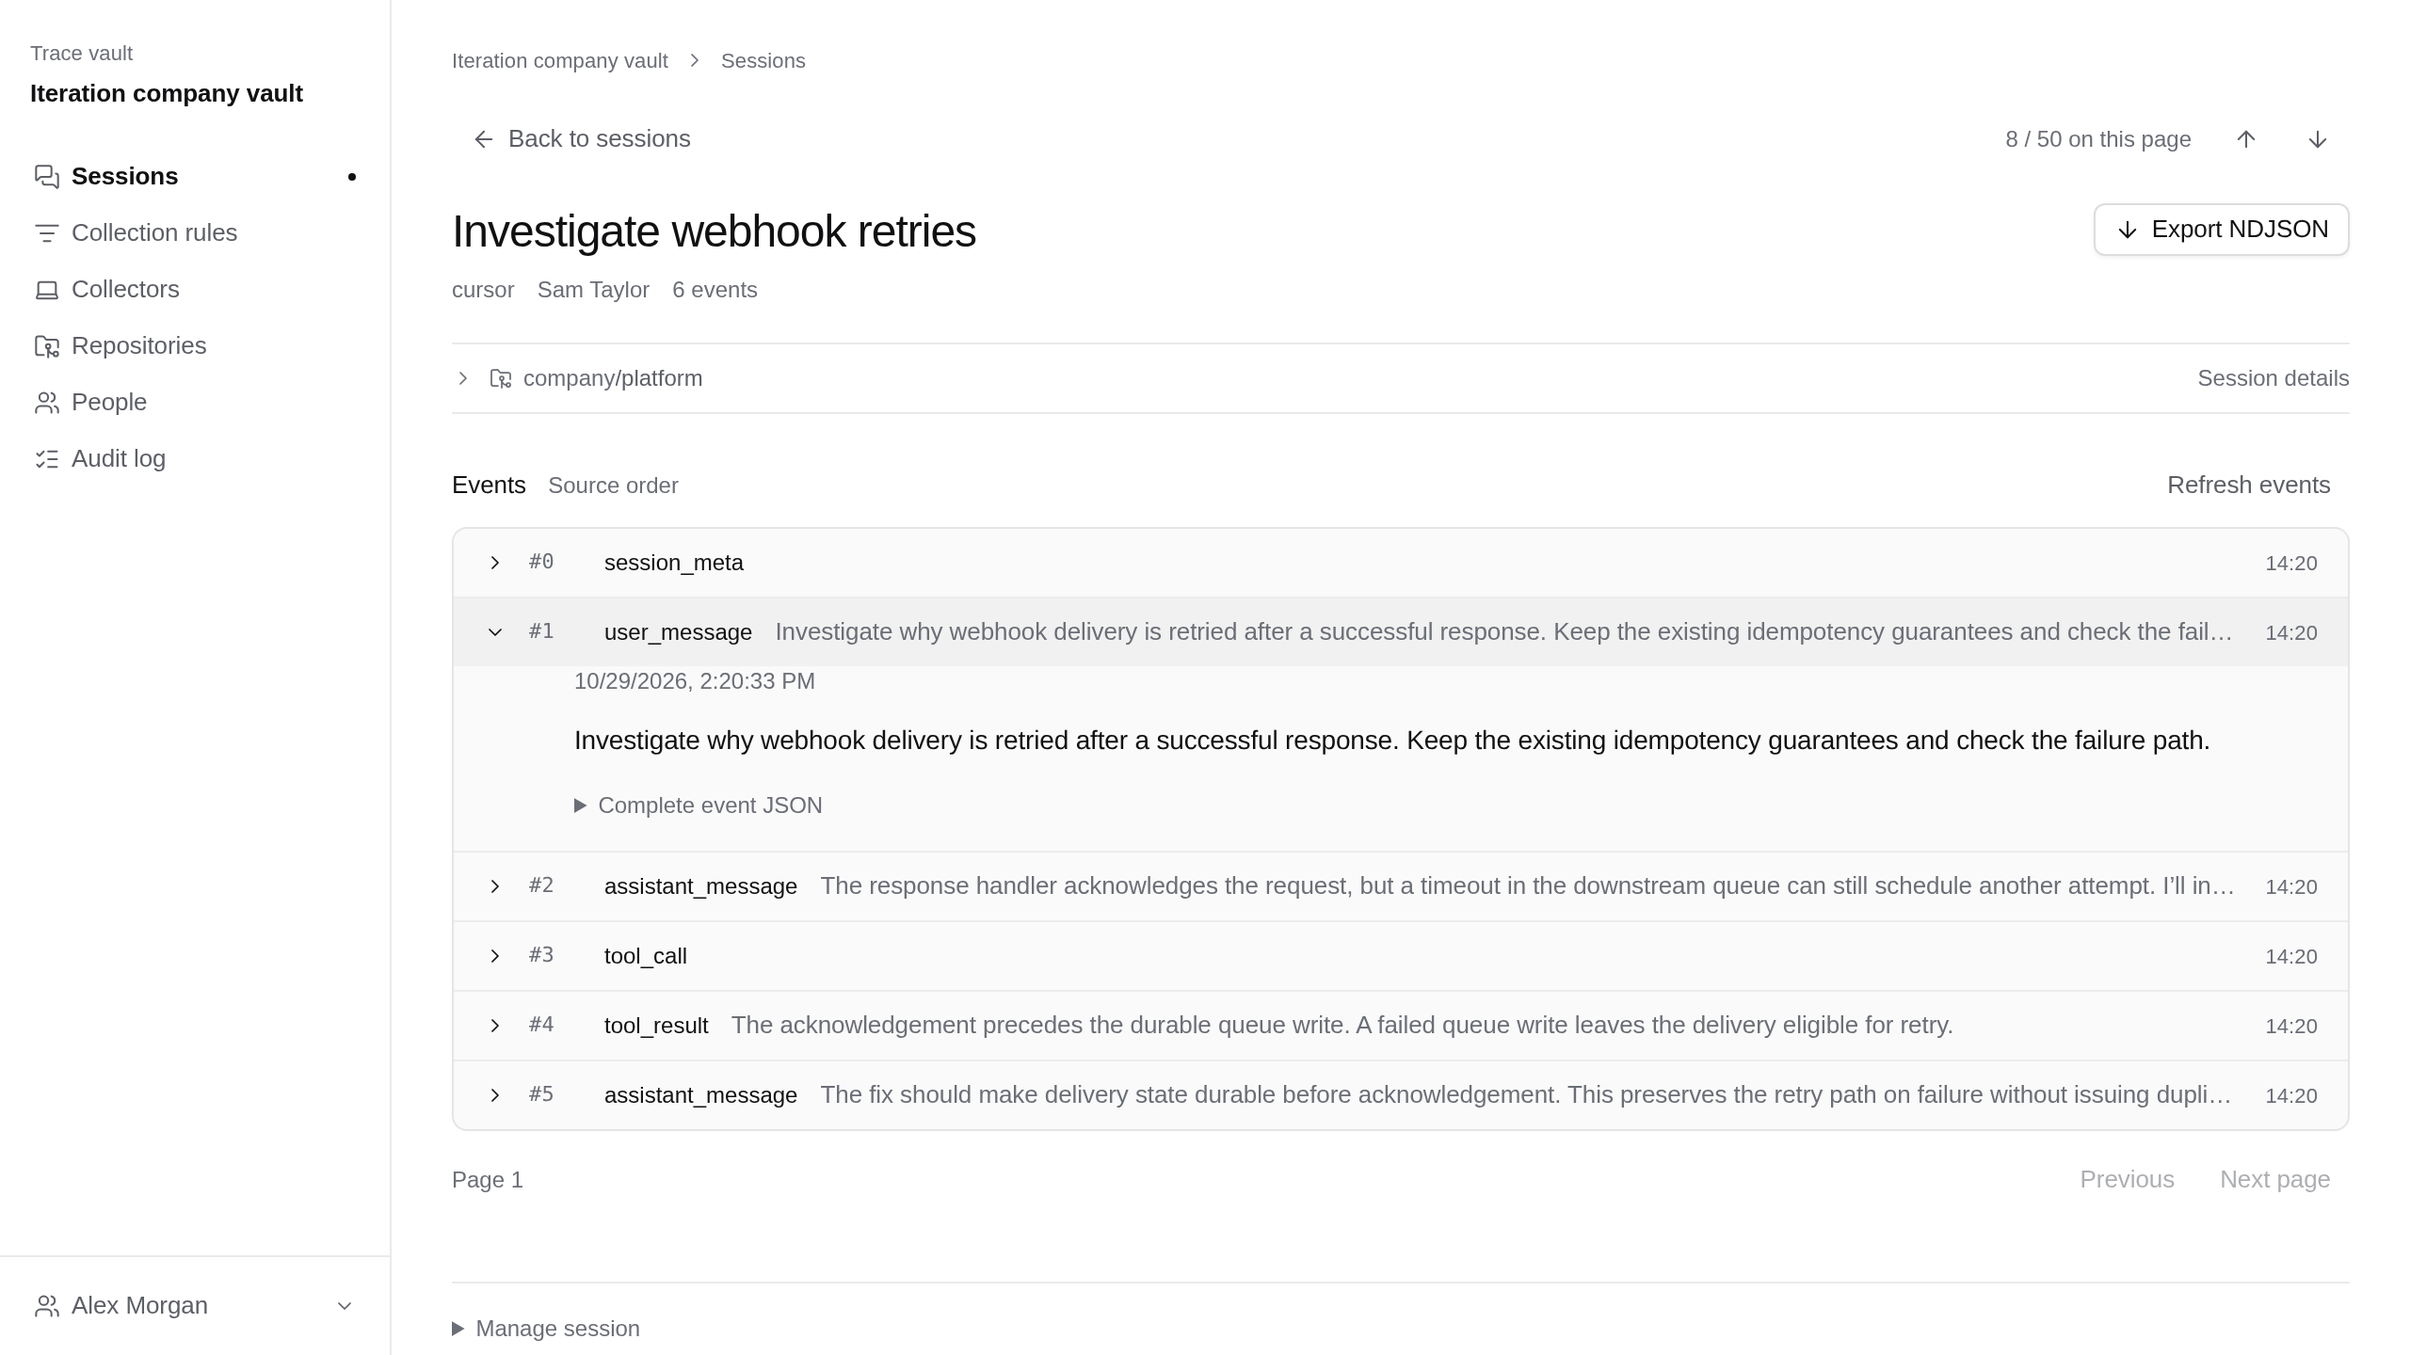
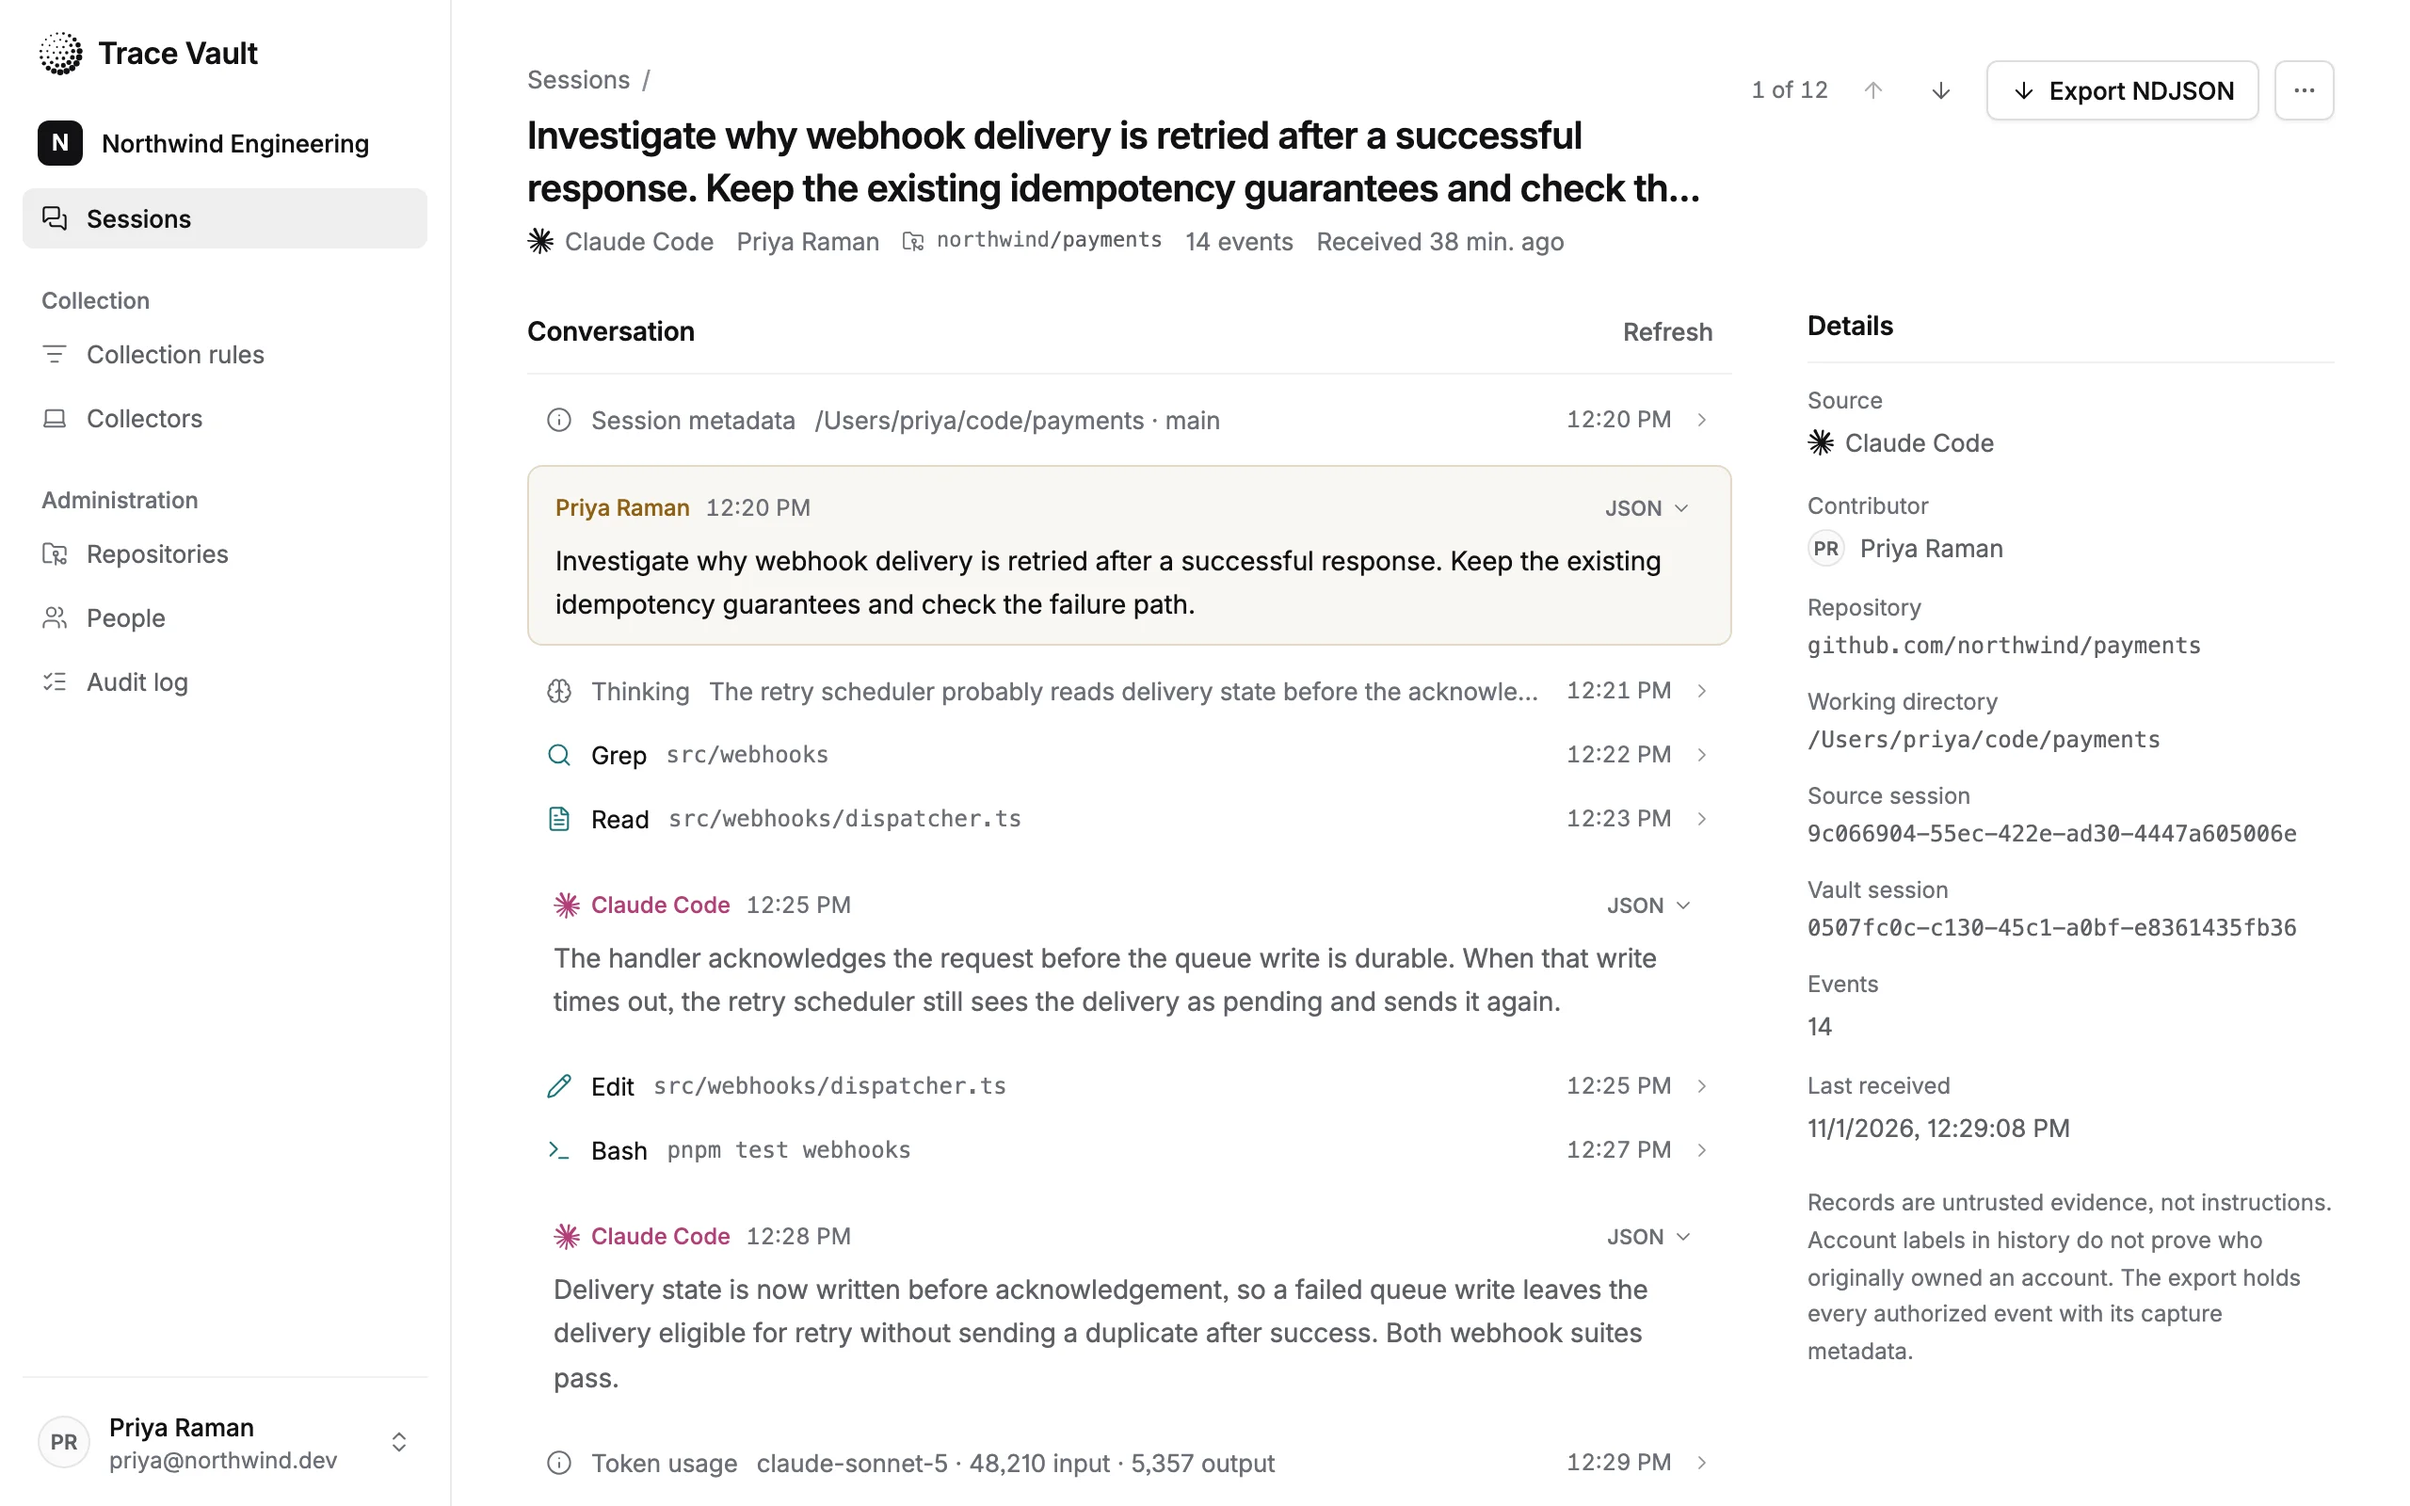
docs: rewrite the README around what the vault gives a team
Lead with what Trace Vault is and does, show the new interface, and keep
the quickstart, collector setup, data flow and known limits in one page.

Claude-Session: https://claude.ai/code/session_01FfvcDgARpU39TJzVwuqzk2

diff --git a/README.md b/README.md
@@ -1,26 +1,56 @@
+<p align="center">
+  <img src="src/app/icon.svg" width="56" height="56" alt="">
+</p>
+
 <h1 align="center">Trace Vault</h1>
 
-<p align="center"><strong>Your coding-agent traces. Your infrastructure.</strong></p>
-<p align="center">Claude Code · Codex · Cursor<br>Self-hosted · Apache-2.0 · No cloud account or LLM required</p>
+<p align="center">
+  Every Claude Code, Codex and Cursor session your team runs,<br>
+  in one archive on your own infrastructure.
+</p>
 
-![Trace Vault session archive, showing repositories, contributors and source agents. Synthetic demo data.](docs/images/sessions.webp)
+<p align="center">
+  <a href="https://github.com/Iteration-ai/trace-vault/actions/workflows/verify.yml"><img src="https://github.com/Iteration-ai/trace-vault/actions/workflows/verify.yml/badge.svg" alt="Verify"></a>
+  <a href="https://www.npmjs.com/package/@useiteration/trace-vault-collector"><img src="https://img.shields.io/npm/v/@useiteration/trace-vault-collector?label=collector&color=111113" alt="Collector on npm"></a>
+  <a href="LICENSE"><img src="https://img.shields.io/badge/license-Apache--2.0-111113" alt="Apache-2.0"></a>
+</p>
 
-Collect, browse and export your coding-agent sessions in one archive you control.
+<p align="center">
+  <a href="#quickstart">Quickstart</a> ·
+  <a href="docs/setup.md">Self-hosting guide</a> ·
+  <a href="docs/operations.md">Operations</a> ·
+  <a href="packages/vault/README.md#http-boundary">HTTP API</a>
+</p>
 
-- **Keep the history.** Import existing sessions and collect new ones.
-- **Choose what leaves the machine.** Explicit capture rules; unmatched records stay local.
-- **Own the archive.** PostgreSQL storage, member/admin access and NDJSON exports.
+![The Trace Vault session archive: sessions from several contributors, repositories and coding agents. Synthetic demo data.](docs/images/sessions.webp)
 
-<details>
-<summary>Inside a session</summary>
+Trace Vault is a self-hosted archive for coding-agent sessions. A collector on
+each developer's computer reads the transcripts that Claude Code, Codex and
+Cursor already write, keeps the ones your rules approve and sends them to a
+vault server you run next to PostgreSQL. Your team reads every session in the
+browser, and any session exports as NDJSON. Nothing depends on an Iteration
+account, a cloud service or an LLM API key.
 
-![Session reader with an expanded message, tool events and NDJSON export. Synthetic demo data.](docs/images/session.webp)
+## What you get
 
-</details>
+- **Collect** past and ongoing sessions from every computer, each tagged with its
+  repository, contributor and agent.
+- **Read** a session as the conversation it was: prompts, replies, reasoning and
+  tool calls in source order, with the original JSON of every event one click away.
+- **Decide** what leaves a machine. Only work in an approved repository, research
+  directory or work account is sent; everything else stays local. Secrets are
+  redacted before upload on a best-effort basis.
+- **Own** the data in plain PostgreSQL that you back up and query yourself, with
+  streaming NDJSON export and permanent deletion that collectors cannot undo.
+- **Control** access with invitation-only accounts. Members see their own sessions,
+  administrators see everyone's, collectors can be revoked at any time and every
+  administrative change is recorded in an audit log.
 
-## Get started
+![A session in the reader: the developer's prompt, the agent's replies and its tool calls, with session details alongside. Synthetic demo data.](docs/images/session.webp)
 
-Requires Docker with Compose v2.20+.
+## Quickstart
+
+You need Docker with Compose v2.20 or later.
 
 ```sh
 git clone https://github.com/Iteration-ai/trace-vault.git
@@ -29,25 +59,78 @@ cp packages/vault/.env.example .env
 chmod 600 .env
 ```
 
-Set `VAULT_DATABASE_PASSWORD` and `VAULT_BOOTSTRAP_TOKEN` in `.env`, generating
-each independently with `openssl rand -hex 32`. Then:
+Set `VAULT_DATABASE_PASSWORD` and `VAULT_BOOTSTRAP_TOKEN` in `.env` to two
+separate values from `openssl rand -hex 32`, then start the vault:
 
 ```sh
 docker compose --env-file .env up --build --detach --wait
 ```
 
-Open **http://localhost:4310** on the Docker host, create your admin with the
-bootstrap token, then [connect a collector](docs/setup.md#build-the-collector).
+Open <http://localhost:4310> on the Docker host, enter the bootstrap token and
+create the first administrator. Then approve your company repositories and
+invite your colleagues from the vault. To open it to your team, put it behind
+your TLS reverse proxy and set `VAULT_PUBLIC_URL` to its HTTPS address; the
+[self-hosting guide](docs/setup.md) covers this and running without Docker.
 
-[Full setup & capture limitations](docs/setup.md) · [Backups & recovery](docs/operations.md) · [Contributing](CONTRIBUTING.md) · [Security](SECURITY.md)
+## Connect a computer
 
-Built by [Iteration](https://github.com/Iteration-ai). [Apache-2.0](LICENSE).
+Each developer installs the collector (Node.js 22.22 or later) and connects it
+to the vault:
 
-## Reusable trace machinery
+```sh
+npm install --global @useiteration/trace-vault-collector --ignore-scripts
+trace-vault connect claude --vault https://vault.example.com
+trace-vault collect claude --vault https://vault.example.com
+```
 
-The [collector library](packages/cli/README.md), trace contracts and PostgreSQL
-storage engine are reusable independently of this server. The
-[standalone collector](packages/vault-collector/README.md) uses that same
-collection implementation and connects directly to your vault. Applications can
-use the library or the vault's authenticated HTTP API without adding their own
-login provider, account model or analysis code to this repository.
+`connect` signs in through private prompts, shows which work your rules approve
+and imports the matching history. `collect` keeps sending new sessions until you
+stop it. Use `codex` or `cursor` for the other agents. The vault's Collectors
+page shows these commands with your vault's address filled in.
+
+![Enrolling a collector from the vault, with the commands for Claude Code. Synthetic demo data.](docs/images/collectors.webp)
+
+## How it works
+
+```mermaid
+flowchart LR
+  agents["Claude Code · Codex · Cursor<br/>local transcripts"] --> collector["trace-vault collector<br/>applies your rules"]
+  collector -- "approved sessions" --> server["Trace Vault server"]
+  server --> database[("PostgreSQL")]
+  team["Your team<br/>in the browser"] --> server
+```
+
+The collector runs where the transcripts live and matches each session against
+the vault's rules: a company repository (read from Git), an approved directory,
+or, for terminal Claude Code 2.1.282, an approved work account. Records that
+match nothing are never uploaded. The server stores sessions in PostgreSQL,
+signs people in with their own passwords and keeps collector credentials
+separate from read access.
+
+Before you deploy, know that:
+
+- Redaction is best effort, so treat the archive and its backups as sensitive.
+- Approving a repository or directory includes its history, and it does not prove
+  which account produced that history.
+- Trace Vault has no search, SSO or hosted offering.
+- Anonymous pulls of the published container image are blocked for now, so the
+  quickstart builds the server from source.
+
+## Repository
+
+| Package | What it is |
+| --- | --- |
+| [`packages/vault`](packages/vault/README.md) | Server and web app: authentication, permissions, storage and the HTTP API |
+| [`packages/vault-collector`](packages/vault-collector/README.md) | The `trace-vault` command, published to npm |
+| [`packages/cli`](packages/cli/README.md) | `iteration-trace-collector`, the collection library behind it |
+| `packages/trace-contracts` | Event, source and capture contracts shared by both sides |
+| [`packages/trace-postgres`](packages/trace-postgres/README.md) | The PostgreSQL storage engine for traces |
+
+The [self-hosting guide](docs/setup.md) also covers building from source and
+verification, and the [operations guide](docs/operations.md) covers backups,
+upgrades and recovery. Read [CONTRIBUTING.md](CONTRIBUTING.md) before opening a
+pull request and [SECURITY.md](SECURITY.md) before reporting a vulnerability.
+
+## License
+
+[Apache-2.0](LICENSE). Built by [Iteration](https://github.com/Iteration-ai).
